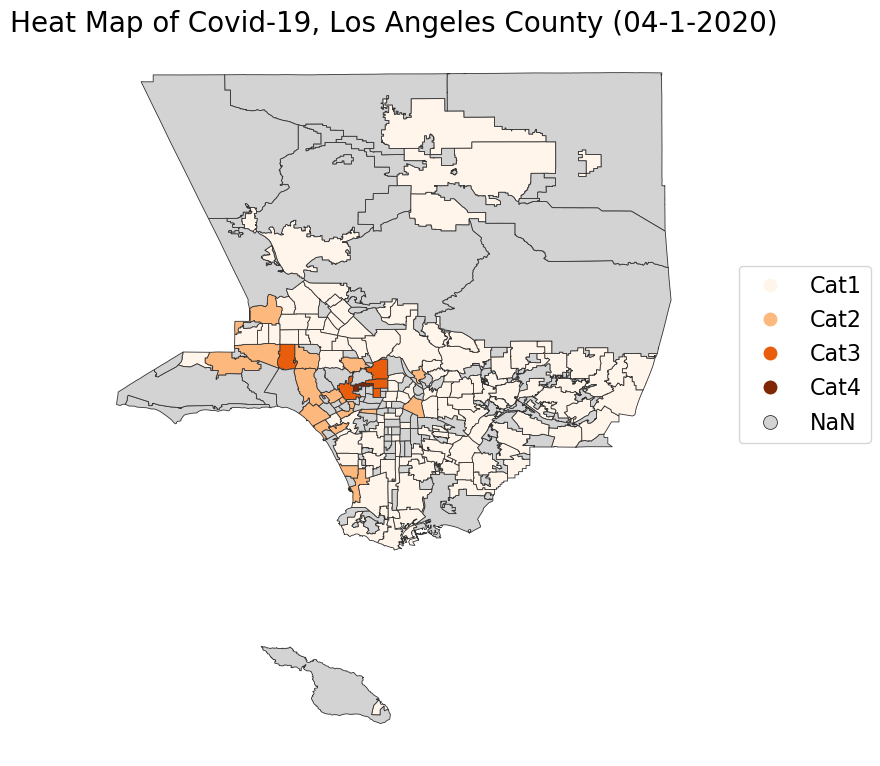
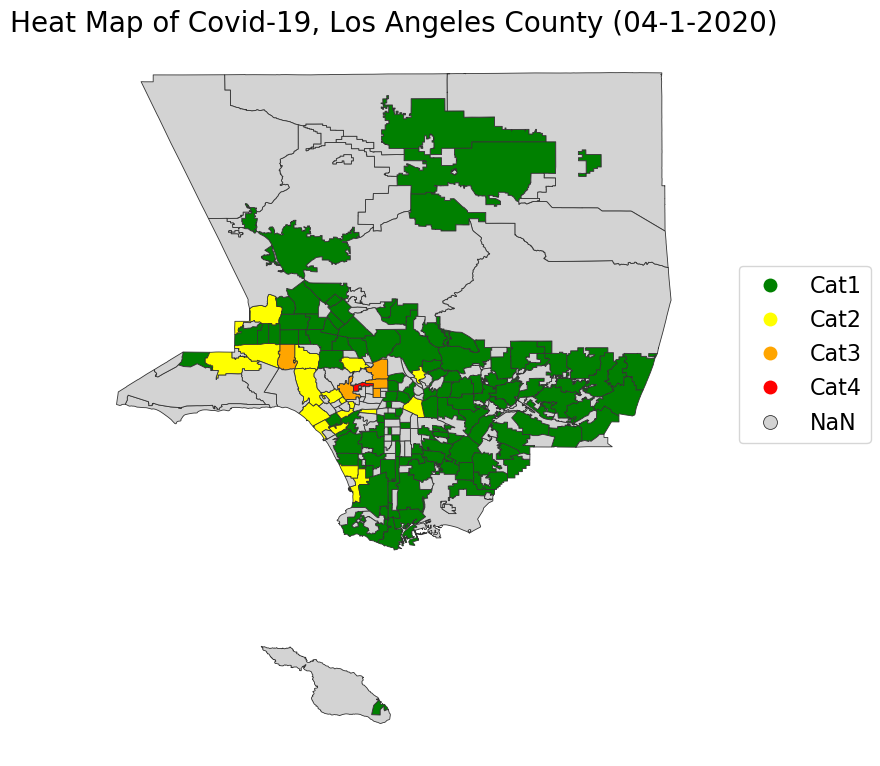
change specific colors

diff --git a/scripts/process_map.py b/scripts/process_map.py
@@ -17,6 +17,7 @@ import requests
 from bs4 import BeautifulSoup
 import numpy as np
 import seaborn as sns
+from matplotlib.colors import ListedColormap
 
 
 
@@ -219,7 +220,7 @@ def generate_heatmap_color_bydate(d):
     filename = 'dailycases/%s.csv'%(d)
     data = pd.read_csv(filename,header=0)
 
-    colors = ['Greens','Blues','Purples','Oranges']
+    colors = ['Green','Yellow','Orange','Red']
     step = (max_den - min_den)/len(colors)
     bins = [0,min_den+step,min_den+2*step,min_den+3*step,max_den]
     labels=['Cat{}'.format(x) for x in range(1, len(bins))]
@@ -230,7 +231,9 @@ def generate_heatmap_color_bydate(d):
     merged = merged.reset_index()
     # merged['cat'] = merged['cat'].cat.add_categories('No data')
     # merged['cat'].fillna('No data', inplace =True) 
-    # print(merged)
+    
+    
+    print(merged)
     merged['Time Stamp'] = merged['Time Stamp'].fillna(0)
     merged['Longitude'] = merged['Longitude'].fillna(0)
     merged['Latitude'] = merged['Latitude'].fillna(0)
@@ -238,9 +241,13 @@ def generate_heatmap_color_bydate(d):
     print(merged)
 
 
+    cmap = ListedColormap(colors, name='allred')
+
     fig, ax = plt.subplots(1, figsize=(14,8))
-    merged.plot(column='cat', categorical=True, cmap='Oranges', linewidth=.6, edgecolor='0.2',
+    merged.plot(column='cat', categorical=True, cmap=cmap, linewidth=.6, edgecolor='0.2',
              legend=True, legend_kwds={'bbox_to_anchor':(1.3, 0.7),'fontsize':16,'frameon':True}, ax=ax, missing_kwds={'color': 'lightgrey'})
+    # merged.plot(column='cat', categorical=True, cmap='Oranges', linewidth=.6, edgecolor='0.2',
+    #          legend=True, legend_kwds={'bbox_to_anchor':(1.3, 0.7),'fontsize':16,'frameon':True}, ax=ax)
 
     title = 'Heat Map of Covid-19, Los Angeles County (%s)' %(d)
     ax.set_title(title,fontsize=20)
